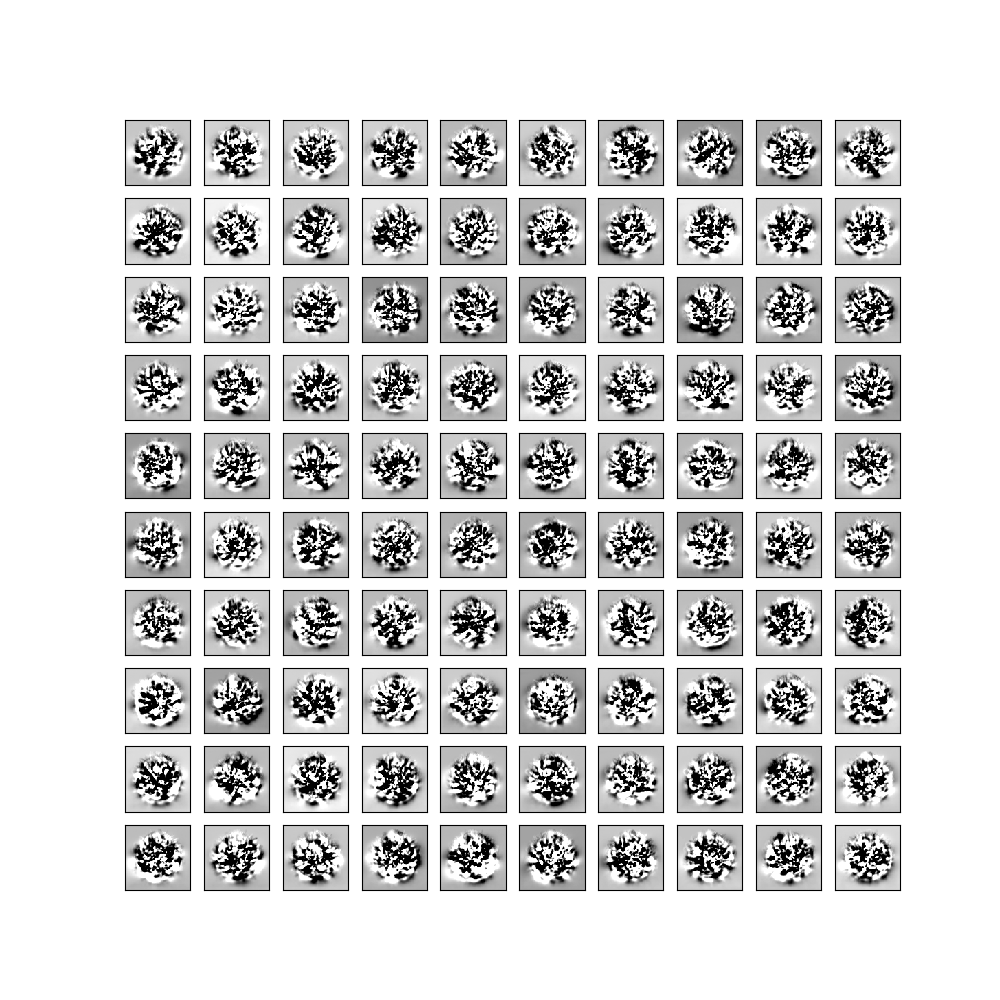
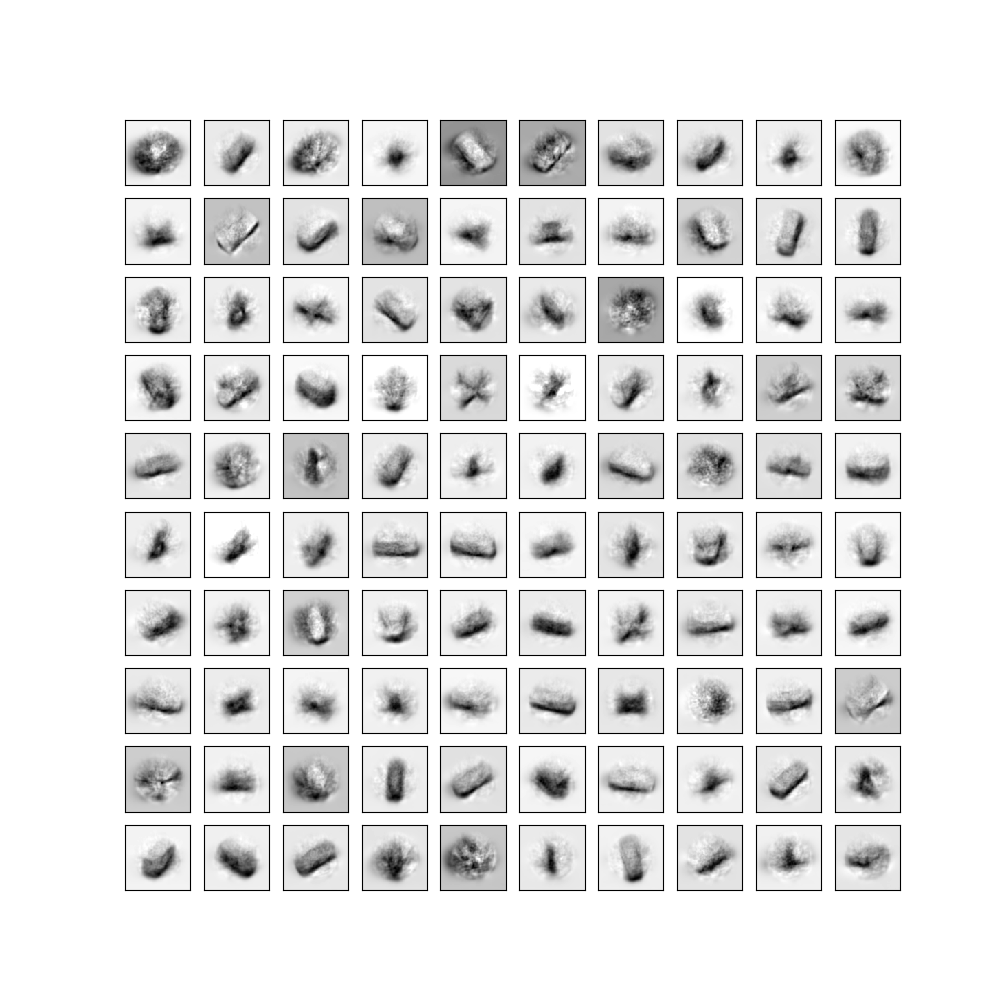
Added gitignore; amended incorrect treatment of pca vae

diff --git a/Story.md b/Story.md
@@ -44,6 +44,7 @@ Batch normalised, and relu activated \
 No fancy initialisation, but training was relatively stable anyway \
 Error: MSE, not sure that BXE makes sense for the PCA components \
 Train images look better than before, but test are pretty bad and random sampling leads to nonsense. \
+EDIT: random sampling leads to nonsense because of a mistak I made in the code. Random sampling in reality gives some structure but not a very nice structure: see small Pca Vae with no iftted variance random sampling
 QUESTIONS: Activation: none on the final layer, if pca components are all -1 to 1 then maybe tanh makes sense? Maybe training for more epochs? Maybe a higher capacity network? \
 See folder "PCAVae"
 
